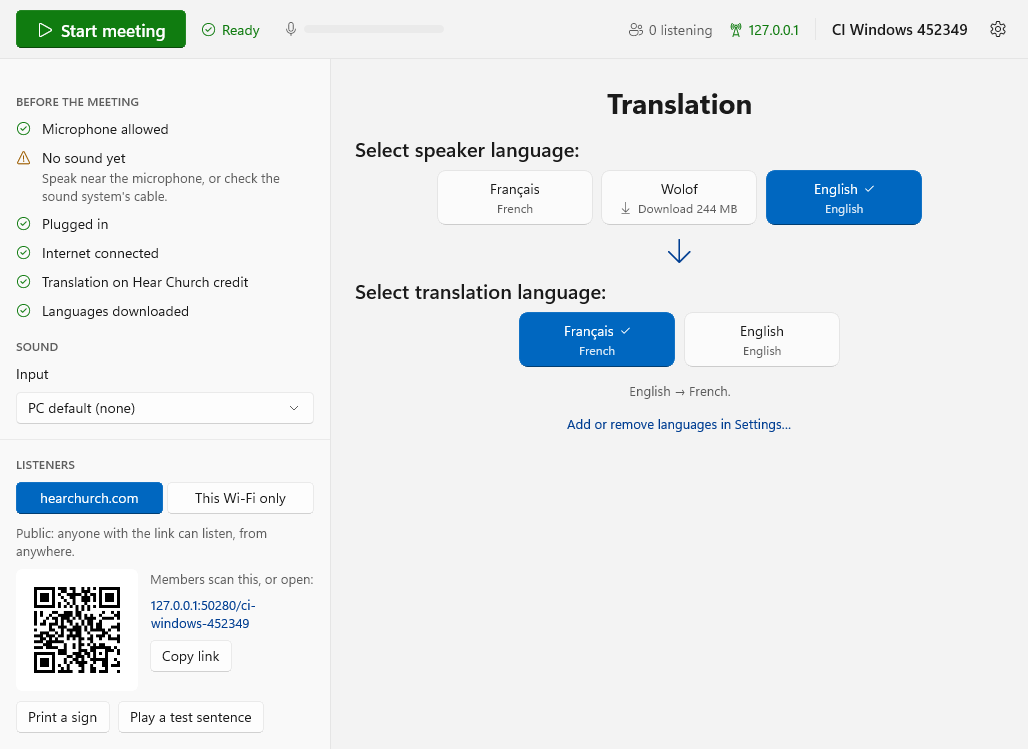
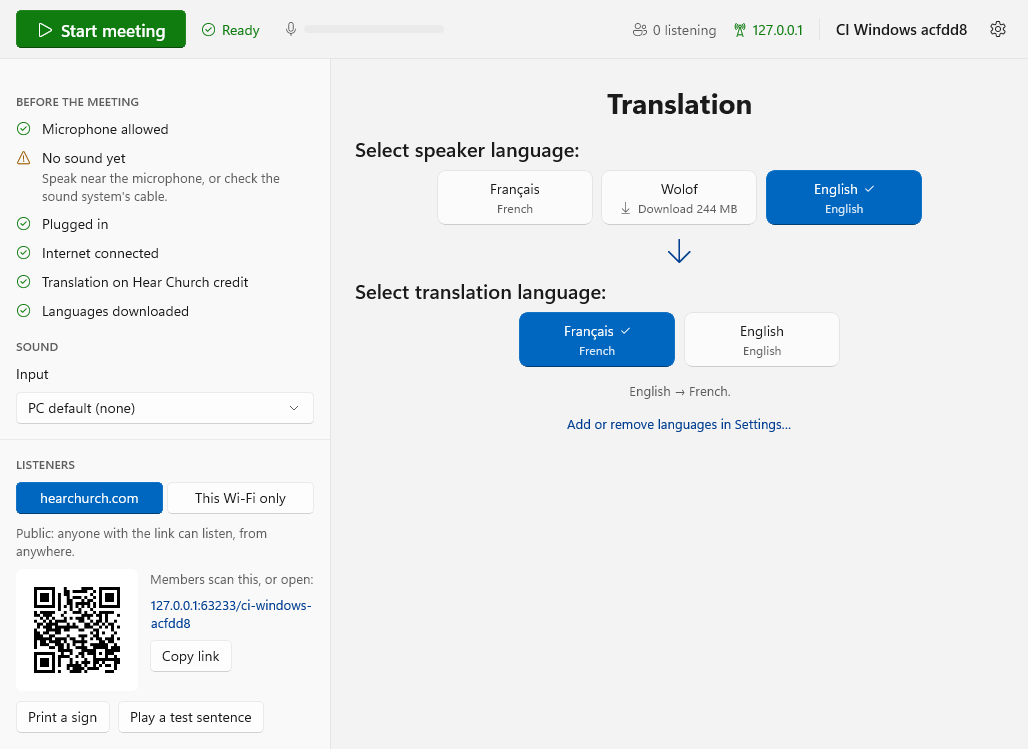
docs: Windows Settings parity (W5), firewall rule, screenshots of every tab from run 44014614181

diff --git a/docs/windows-app.md b/docs/windows-app.md
@@ -9,10 +9,14 @@ Unsigned; installer and automatic updates: docs/windows-release.md (W3).
 CI: the `app` job of `.github/workflows/windows.yml` builds it (`dotnet publish`), builds the sidecar and puts it in
 `engine\`, uploads the whole folder as the artifact **hearchurch-win-x64** (7 days), then walks the real app through
 its screens and uploads **windows-screenshots**. The pictures in `docs/windows-screenshots/` come from run
-[44006905518](https://github.com/hpriehle/hear-church/actions/runs/44006905518) (2026-11-17, `windows-latest`, its
-1024×768 screen): `1-sign-in`, `2-setup-languages`, `3-main-idle`, `4-main-meeting` (the sermon, 39 s in, French
-14 s behind at that moment: the runner's 4 shared vCPUs), `5-settings`, and `screens.json` (every step, timed). The
-whole walk-through takes about 90 s; the app folder (app + sidecar) is the `hearchurch-win-x64` artifact.
+[44014614181](https://github.com/hpriehle/hear-church/actions/runs/44014614181) (2026-11-17, `windows-latest`, its
+1024×768 screen): `1-sign-in`, `2-setup-languages`, `3-main-idle`, `4-main-meeting` (the sermon, 26 s in, French
+3.5 s behind at that moment), then every Settings tab during the meeting: `5-settings-1-general`, `-2-billing`,
+`-3-languages`, `-3b-languages-french` (a language's voices), `-4-speaking`, `-5-glossary` (French),
+`-6-congregation`, `-7-about`; `*-whole` is the whole tab where it scrolls; and `screens.json` (every step, timed). The
+CI congregation is on credit, so Billing shows (not AI), with the local hub's answers (no Stripe: "Buying credit isn't
+available yet"). The whole walk-through takes about 110 s; the app folder (app + sidecar) is the `hearchurch-win-x64`
+artifact.
 
 To try it on a PC: download `hearchurch-win-x64` from a green run (Actions → windows → the run → Artifacts), unzip,
 run `HearChurch.exe`. SmartScreen warns (unsigned): More info → Run anyway. Or install it: the **hearchurch-windows-dev**
@@ -75,7 +79,7 @@ prompt earlier, Windows may have added a *block* rule for the engine, which wins
 congregation, downloads speech recognition and the English and French voices into a fresh data folder through the
 sidecar, asks the hub for a pairing code, and starts `HearChurch.exe` with `HEARCHURCH_APP_SCREENSHOTS`. The app
 (`UI/Screenshots.cs`) then really signs in with that code, finishes setup, waits for the engine, plays the sermon
-(`samples\sermon.mp3` in the data folder) as a meeting, opens Settings, stops the meeting and quits, rendering each
+(`samples\sermon.mp3` in the data folder) as a meeting, opens every Settings tab, stops the meeting and quits, rendering each
 screen to a PNG (`RenderTargetBitmap`: the window's content, without its title bar). `screens.json` lists every step.
 No real hub credentials are used anywhere.
 

diff --git a/docs/windows-engine.md b/docs/windows-engine.md
@@ -71,7 +71,7 @@ Exactly what `mac/HearChurch/Sources/Engine.swift` and `AppModel.swift` do:
    - only for a church on its own key: `ANTHROPIC_API_KEY`. Without one, translation goes through the hub proxy on
      the congregation's credits (metered by the hub), as on the Mac.
 3. Poll `GET http://127.0.0.1:<port>/api/status` until it answers (the engine binds 127.0.0.1 unless local Wi-Fi
-   sharing is on, then 0.0.0.0 — Windows Firewall may then ask; W2 should add the rule at install).
+   sharing is on, then 0.0.0.0 — the app adds a Windows Firewall rule for it the first time "This Wi-Fi only" is picked: docs/windows-app.md).
 4. Then the same routes the Mac app uses: `/api/state`, `/api/settings`, `/api/packages` and
    `/api/packages/download` (first-run downloads with progress), `/api/start` / `/api/stop` (source `mic` with a
    device name: the hearing-assist receiver's line-in/USB input), `/api/billing`, `/api/glossary`, `/api/report`,
